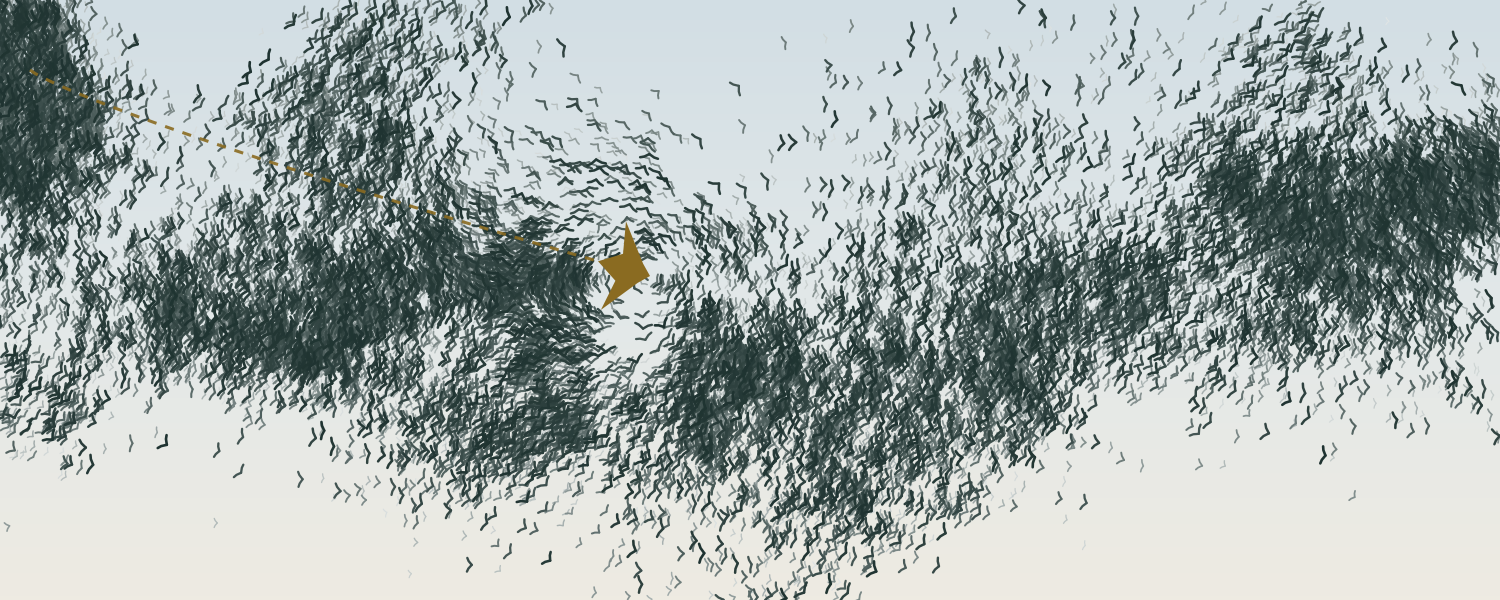
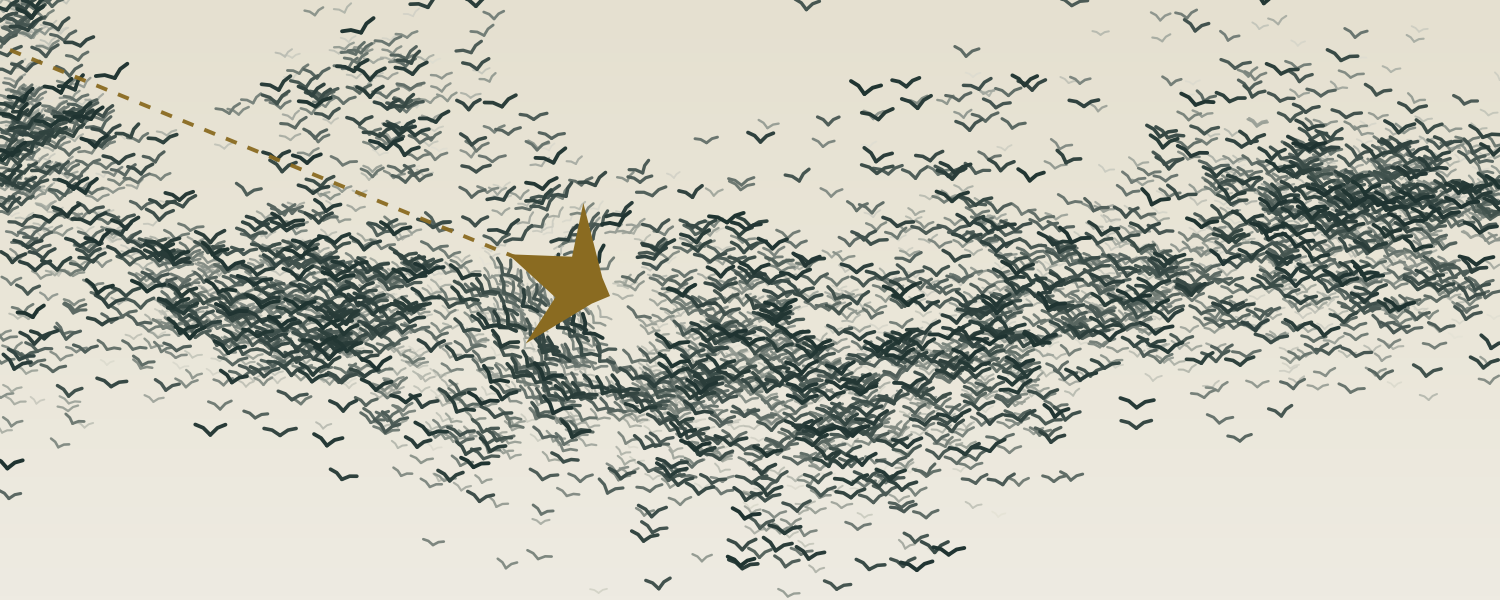
Teaching: gull-wing flock with falcon channel, no blue sky

diff --git a/teaching.html b/teaching.html
@@ -1,1 +1,1 @@
-<!doctype html><html lang="en"><head><meta charset="utf-8"><meta name="viewport" content="width=device-width, initial-scale=1"><meta name="description" content="Zack Kilpatrick studies the mathematics of decisions, collective behavior, and memory at the University of Colorado Boulder."><meta name="theme-color" content="#1f3a31"><title>Teaching | Zack Kilpatrick</title><link rel="icon" href="assets/mark.svg" type="image/svg+xml"><link rel="stylesheet" href="assets/site.css?v=56"><script defer src="assets/site.js?v=23"></script></head><body class="academic"><a class="skip" href="#main">Skip to content</a><header class="site-header"><a class="brand" href="index.html"><span>Zack Kilpatrick<small>APPLIED MATHEMATICS · UNIVERSITY OF COLORADO BOULDER</small></span></a><button class="menu-button" aria-expanded="false" aria-controls="navigation">Menu</button><nav id="navigation" aria-label="Main navigation"><a href="research.html">Research</a><a href="publications.html">Publications</a><a href="group.html">Group</a><a href="teaching.html" aria-current="page">Teaching</a><a href="demos.html">Demos</a><a href="consulting.html">Consulting</a></nav></header><main id="main"><section class="page-intro wrap"><h1>Teaching</h1><p class="lede">Courses in applied mathematics, computational neuroscience, and mathematical biology. Most courses end with a project on a current research question.</p></section><section class="wrap course-grid"><article class="course"><img class="course-thumb" src="images/teaching/compneuro.png?v=9" alt="" loading="lazy" width="1500" height="600"><p class="eyebrow">APPM 4370 / 5370</p><h2>Computational Neuroscience</h2><p class="course-term">Fall 2026; previously 2024, 2023, 2021, 2020</p><p>Introduces mathematical and computational models of neurons, neural networks, and cognition. Topics include single-neuron dynamics, synaptic plasticity, recurrent network models, and attractor dynamics, with numerical simulation throughout and a final research project. I developed this course and have taught it at CU Boulder since 2020.</p></article><article class="course"><img class="course-thumb" src="images/teaching/markov.png?v=9" alt="" loading="lazy" width="1500" height="600"><p class="eyebrow">APPM 4560 / 5560</p><h2>Markov Processes</h2><p class="course-term">Fall 2026, 2025</p><p>Studies stochastic processes with the Markov property. Topics include discrete- and continuous-time Markov chains, Poisson processes, stationary distributions, and long-run behavior, with applications to models of random systems.</p></article><article class="course"><img class="course-thumb" src="images/teaching/mathbio.png?v=9" alt="" loading="lazy" width="1500" height="600"><p class="eyebrow">APPM 4390 / 5390</p><h2>Mathematical Biology</h2><p class="course-term">Spring 2026</p><p>Introduces mathematical modeling of biological systems. Topics include population dynamics, interacting species, feedback and regulation, and spatial effects, using both analytical and computational methods.</p></article><article class="course"><img class="course-thumb" src="images/teaching/pde.png?v=9" alt="" loading="lazy" width="1500" height="600"><p class="eyebrow">APPM 5470</p><h2>Partial Differential & Integral Equations</h2><p class="course-term">2024, 2020, 2019, 2018</p><p>Covers the theory and solution of partial and integral equations. Topics include classification of equations, analytical solution techniques, and properties of solutions.</p></article><article class="course"><img class="course-thumb" src="images/teaching/nonlinear.png?v=9" alt="" loading="lazy" width="1500" height="600"><p class="eyebrow">APPM 3010</p><h2>Nonlinear Dynamics & Chaos</h2><p class="course-term">Fall 2021</p><p>Introduces the analysis of nonlinear dynamical systems. Topics include stability, bifurcations, limit cycles, and chaos.</p></article><article class="course"><img class="course-thumb" src="images/teaching/approx.png?v=9" alt="" loading="lazy" width="1500" height="600"><p class="eyebrow">APPM 5480</p><h2>Approximation Methods</h2><p class="course-term">Spring 2021</p><p>Covers asymptotic and perturbation methods for problems that cannot be solved exactly. Topics include dominant balance, regular and singular perturbation theory, and reduced descriptions of complex systems.</p></article></section><section class="wrap teaching-note"><h2>Also taught at CU Boulder</h2><dl class="alumni"><div><dt>APPM 3570 <span>Applied Probability</span></dt><dd>Spring 2018, 2017</dd></div><div><dt>APPM 2360 <span>Differential Equations with Linear Algebra</span></dt><dd>Spring 2019</dd></div><div><dt>APPM 4350 <span>Fourier Series &amp; Boundary Value Problems</span></dt><dd>Fall 2016</dd></div></dl></section><section class="wrap teaching-note"><div class="intro-row"><div class="intro-head"><h2>Seminars and the graduate program</h2></div><div><p>I organize <strong>APPM 8400: Mathematical Biology Seminar</strong>, which brings visiting speakers and CU researchers together around mathematical modeling in the life sciences.</p><p>I helped redesign <strong>APPM 7400: Introduction to Research</strong>, and introduced <strong>APPM 7400: Graduate Research Seminar</strong>, so that journal club and student research presentations are part of the first and second years of the PhD program.</p></div></div></section></main><footer><div><a class="footer-name" href="index.html">Zack Kilpatrick</a><p>Professor of Applied Mathematics<br>University of Colorado Boulder</p></div><div><a href="mailto:zpkilpat@colorado.edu">zpkilpat@colorado.edu</a><p><a href="zpk_cv.pdf">CV (PDF)</a> · <a href="https://scholar.google.com/citations?user=w-RYt7kAAAAJ">Google Scholar</a> · <a href="https://github.com/zpkilpat">GitHub</a> · <a href="https://www.linkedin.com/in/zachary-kilpatrick-5b7339397/">LinkedIn</a></p></div><small>© 2026 Zack Kilpatrick</small></footer></body></html>
+<!doctype html><html lang="en"><head><meta charset="utf-8"><meta name="viewport" content="width=device-width, initial-scale=1"><meta name="description" content="Zack Kilpatrick studies the mathematics of decisions, collective behavior, and memory at the University of Colorado Boulder."><meta name="theme-color" content="#1f3a31"><title>Teaching | Zack Kilpatrick</title><link rel="icon" href="assets/mark.svg" type="image/svg+xml"><link rel="stylesheet" href="assets/site.css?v=56"><script defer src="assets/site.js?v=23"></script></head><body class="academic"><a class="skip" href="#main">Skip to content</a><header class="site-header"><a class="brand" href="index.html"><span>Zack Kilpatrick<small>APPLIED MATHEMATICS · UNIVERSITY OF COLORADO BOULDER</small></span></a><button class="menu-button" aria-expanded="false" aria-controls="navigation">Menu</button><nav id="navigation" aria-label="Main navigation"><a href="research.html">Research</a><a href="publications.html">Publications</a><a href="group.html">Group</a><a href="teaching.html" aria-current="page">Teaching</a><a href="demos.html">Demos</a><a href="consulting.html">Consulting</a></nav></header><main id="main"><section class="page-intro wrap"><h1>Teaching</h1><p class="lede">Courses in applied mathematics, computational neuroscience, and mathematical biology. Most courses end with a project on a current research question.</p></section><section class="wrap course-grid"><article class="course"><img class="course-thumb" src="images/teaching/compneuro.png?v=10" alt="" loading="lazy" width="1500" height="600"><p class="eyebrow">APPM 4370 / 5370</p><h2>Computational Neuroscience</h2><p class="course-term">Fall 2026; previously 2024, 2023, 2021, 2020</p><p>Introduces mathematical and computational models of neurons, neural networks, and cognition. Topics include single-neuron dynamics, synaptic plasticity, recurrent network models, and attractor dynamics, with numerical simulation throughout and a final research project. I developed this course and have taught it at CU Boulder since 2020.</p></article><article class="course"><img class="course-thumb" src="images/teaching/markov.png?v=10" alt="" loading="lazy" width="1500" height="600"><p class="eyebrow">APPM 4560 / 5560</p><h2>Markov Processes</h2><p class="course-term">Fall 2026, 2025</p><p>Studies stochastic processes with the Markov property. Topics include discrete- and continuous-time Markov chains, Poisson processes, stationary distributions, and long-run behavior, with applications to models of random systems.</p></article><article class="course"><img class="course-thumb" src="images/teaching/mathbio.png?v=10" alt="" loading="lazy" width="1500" height="600"><p class="eyebrow">APPM 4390 / 5390</p><h2>Mathematical Biology</h2><p class="course-term">Spring 2026</p><p>Introduces mathematical modeling of biological systems. Topics include population dynamics, interacting species, feedback and regulation, and spatial effects, using both analytical and computational methods.</p></article><article class="course"><img class="course-thumb" src="images/teaching/pde.png?v=10" alt="" loading="lazy" width="1500" height="600"><p class="eyebrow">APPM 5470</p><h2>Partial Differential & Integral Equations</h2><p class="course-term">2024, 2020, 2019, 2018</p><p>Covers the theory and solution of partial and integral equations. Topics include classification of equations, analytical solution techniques, and properties of solutions.</p></article><article class="course"><img class="course-thumb" src="images/teaching/nonlinear.png?v=10" alt="" loading="lazy" width="1500" height="600"><p class="eyebrow">APPM 3010</p><h2>Nonlinear Dynamics & Chaos</h2><p class="course-term">Fall 2021</p><p>Introduces the analysis of nonlinear dynamical systems. Topics include stability, bifurcations, limit cycles, and chaos.</p></article><article class="course"><img class="course-thumb" src="images/teaching/approx.png?v=10" alt="" loading="lazy" width="1500" height="600"><p class="eyebrow">APPM 5480</p><h2>Approximation Methods</h2><p class="course-term">Spring 2021</p><p>Covers asymptotic and perturbation methods for problems that cannot be solved exactly. Topics include dominant balance, regular and singular perturbation theory, and reduced descriptions of complex systems.</p></article></section><section class="wrap teaching-note"><h2>Also taught at CU Boulder</h2><dl class="alumni"><div><dt>APPM 3570 <span>Applied Probability</span></dt><dd>Spring 2018, 2017</dd></div><div><dt>APPM 2360 <span>Differential Equations with Linear Algebra</span></dt><dd>Spring 2019</dd></div><div><dt>APPM 4350 <span>Fourier Series &amp; Boundary Value Problems</span></dt><dd>Fall 2016</dd></div></dl></section><section class="wrap teaching-note"><div class="intro-row"><div class="intro-head"><h2>Seminars and the graduate program</h2></div><div><p>I organize <strong>APPM 8400: Mathematical Biology Seminar</strong>, which brings visiting speakers and CU researchers together around mathematical modeling in the life sciences.</p><p>I helped redesign <strong>APPM 7400: Introduction to Research</strong>, and introduced <strong>APPM 7400: Graduate Research Seminar</strong>, so that journal club and student research presentations are part of the first and second years of the PhD program.</p></div></div></section></main><footer><div><a class="footer-name" href="index.html">Zack Kilpatrick</a><p>Professor of Applied Mathematics<br>University of Colorado Boulder</p></div><div><a href="mailto:zpkilpat@colorado.edu">zpkilpat@colorado.edu</a><p><a href="zpk_cv.pdf">CV (PDF)</a> · <a href="https://scholar.google.com/citations?user=w-RYt7kAAAAJ">Google Scholar</a> · <a href="https://github.com/zpkilpat">GitHub</a> · <a href="https://www.linkedin.com/in/zachary-kilpatrick-5b7339397/">LinkedIn</a></p></div><small>© 2026 Zack Kilpatrick</small></footer></body></html>
